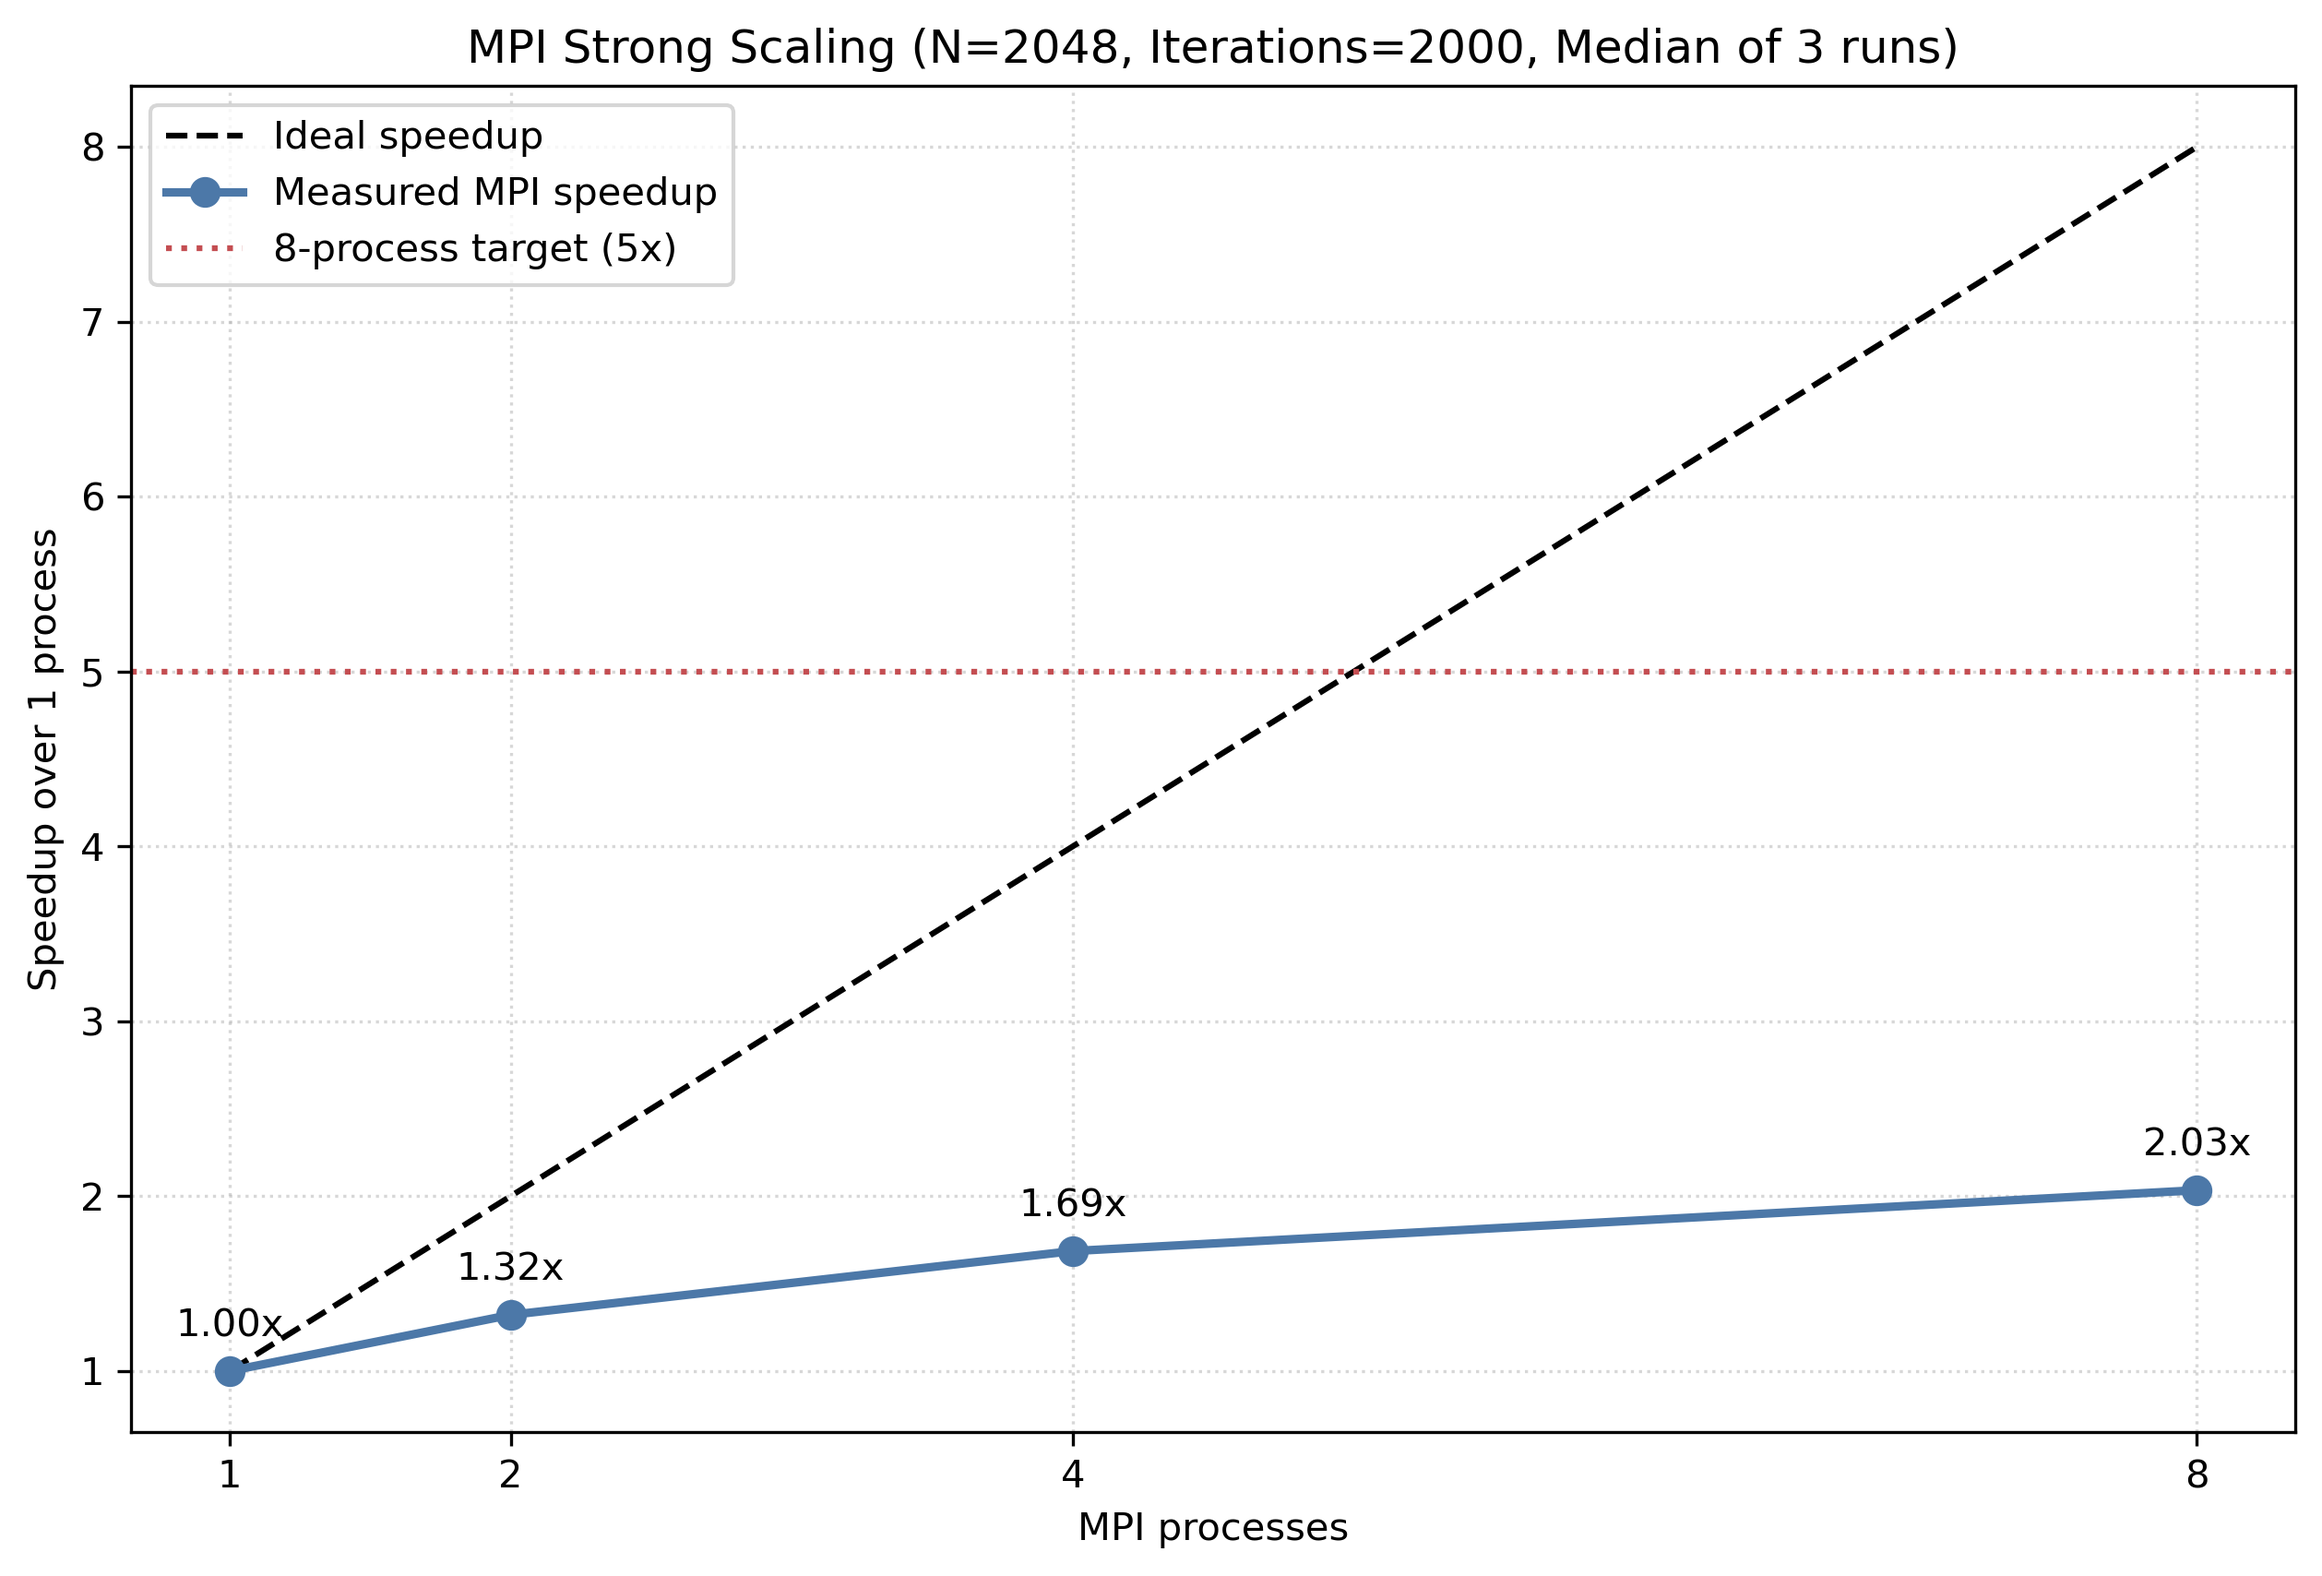
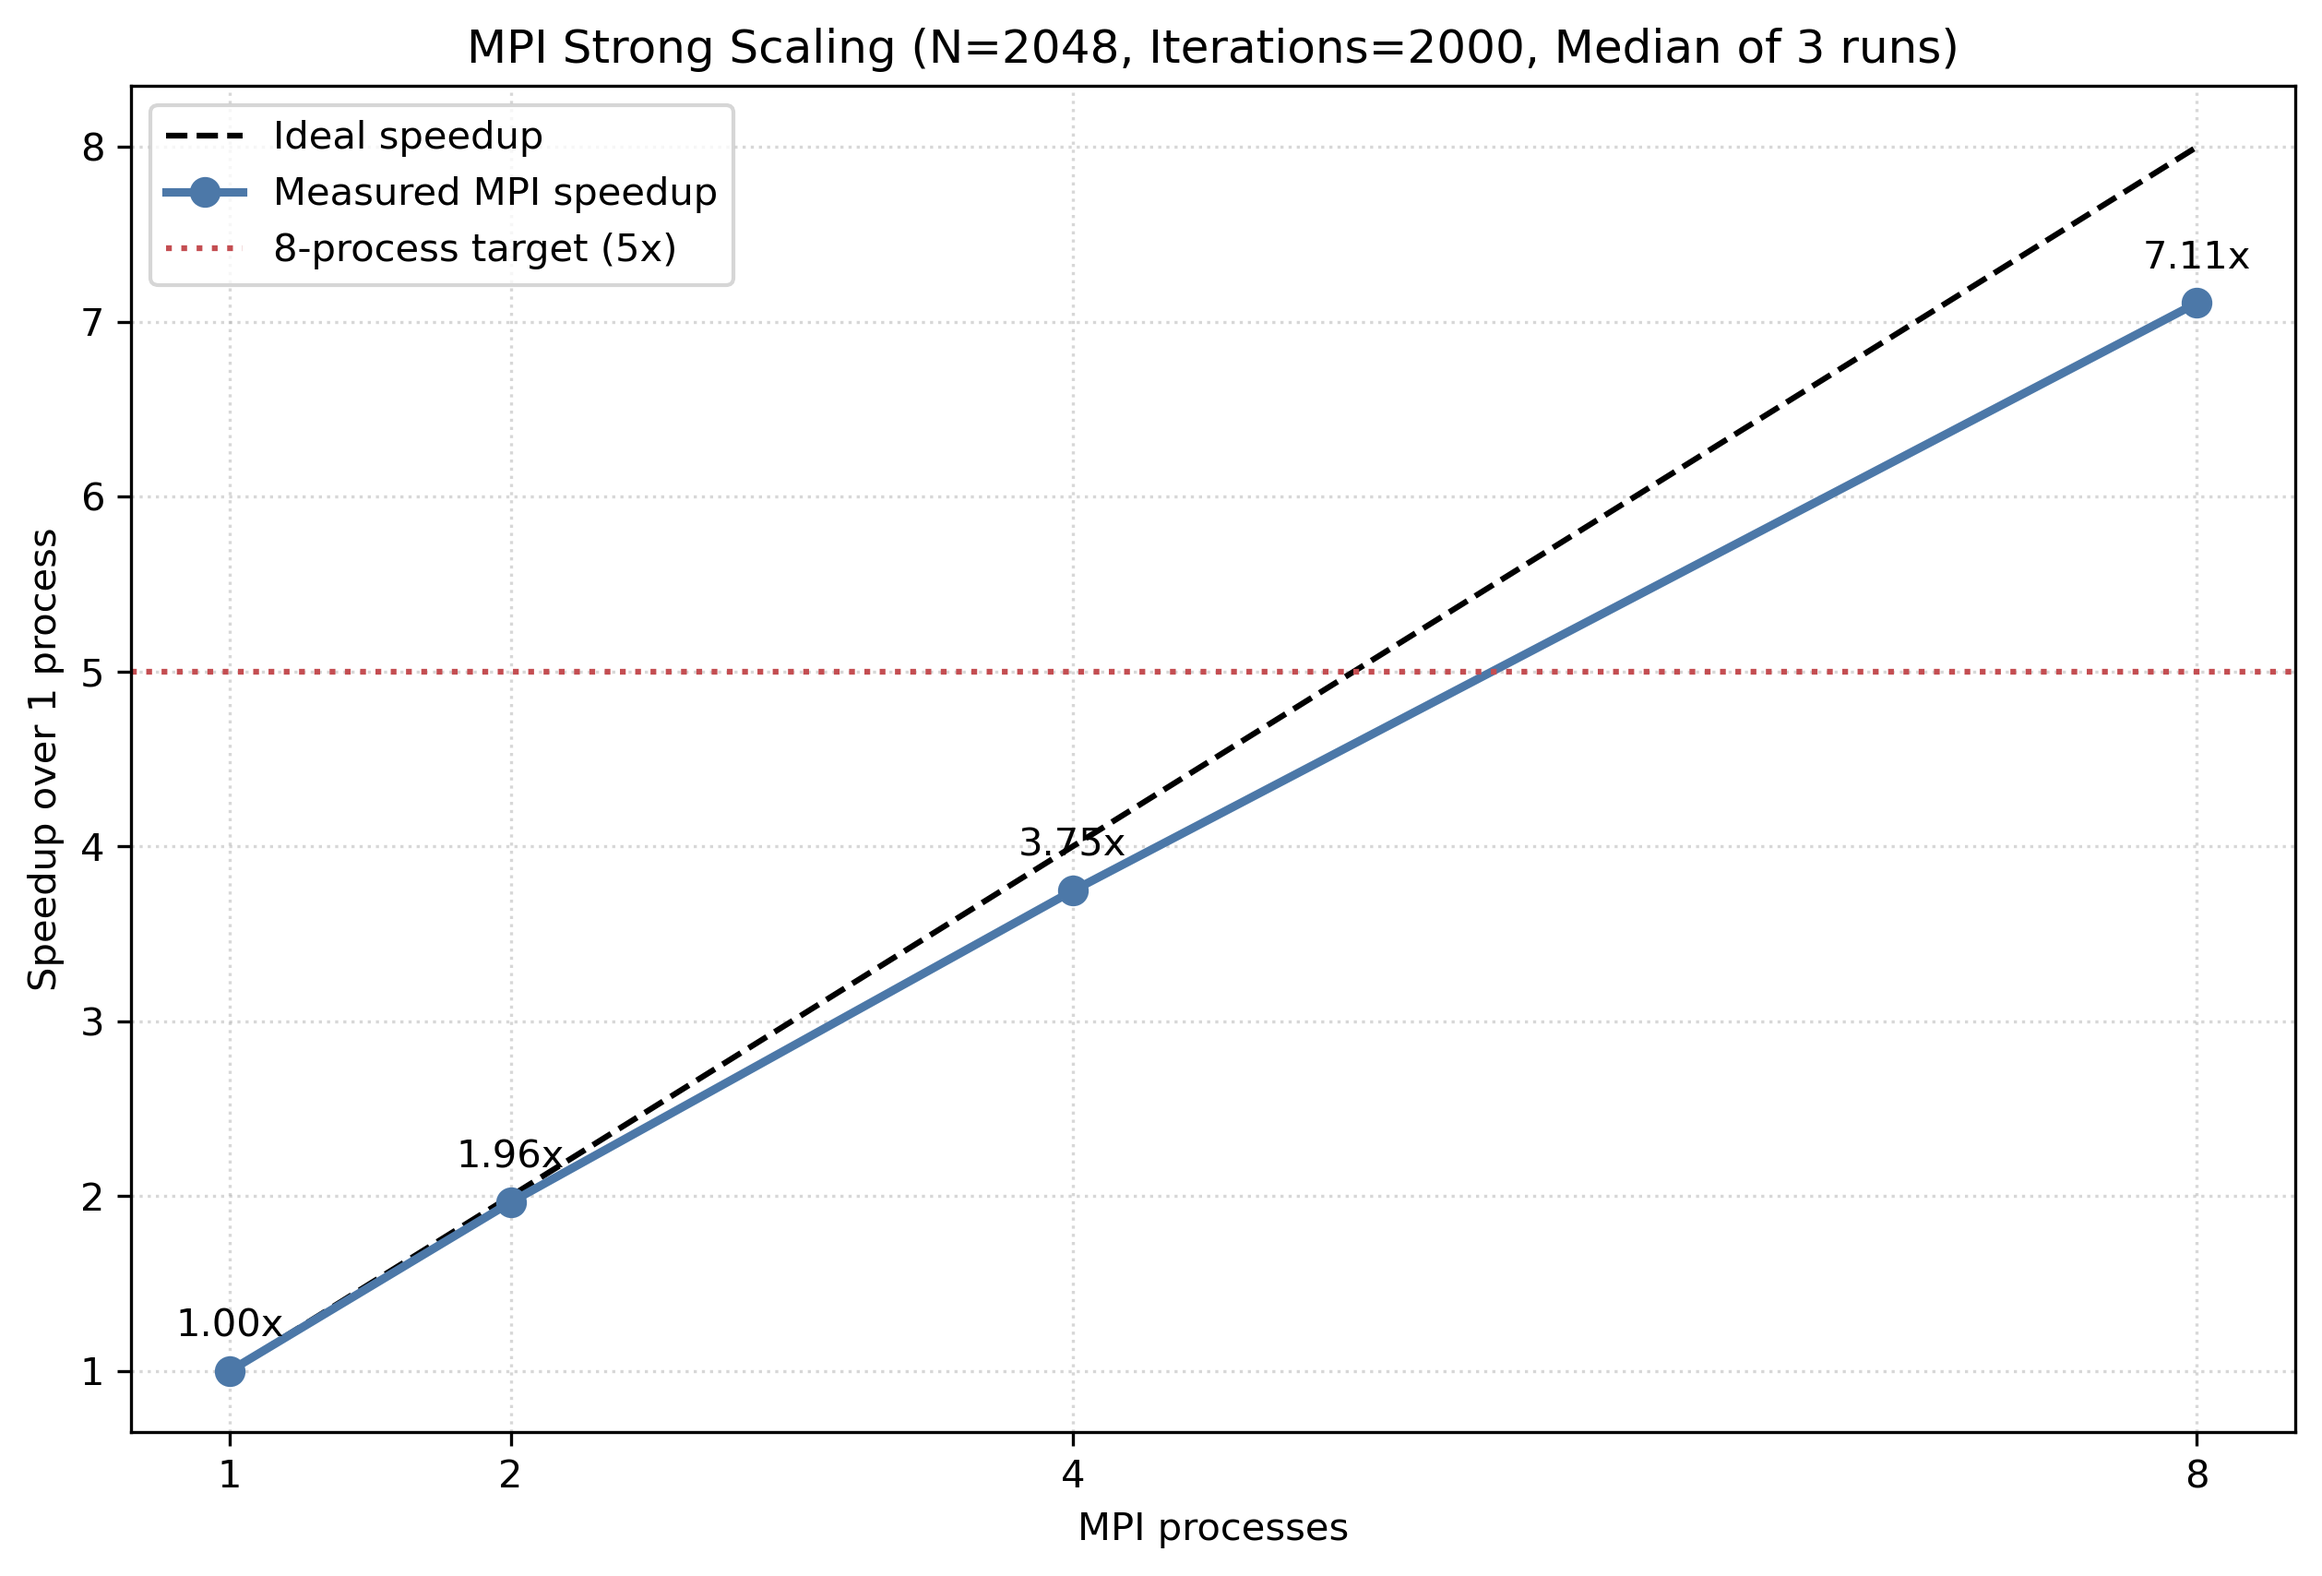
phase 4

diff --git a/scripts/phase_4_run_mpi_scaling.py b/scripts/phase_4_run_mpi_scaling.py
@@ -62,8 +62,6 @@ def main():
     build()
     os.makedirs(DATA, exist_ok=True)
     env = os.environ.copy()
-    # This project runs on one host, so shared-memory transport is sufficient.
-    env.setdefault("OMPI_MCA_btl", "self,vader")
     process_counts = [1, 2, 4, 8]
     samples = {p: [] for p in process_counts}
 
